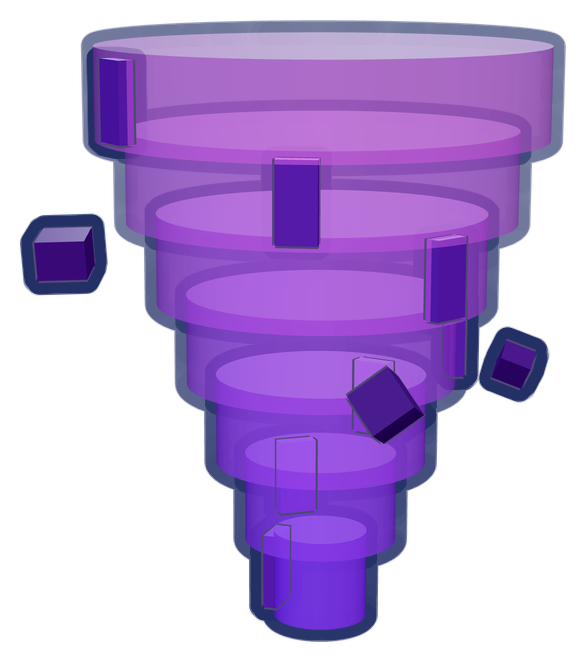
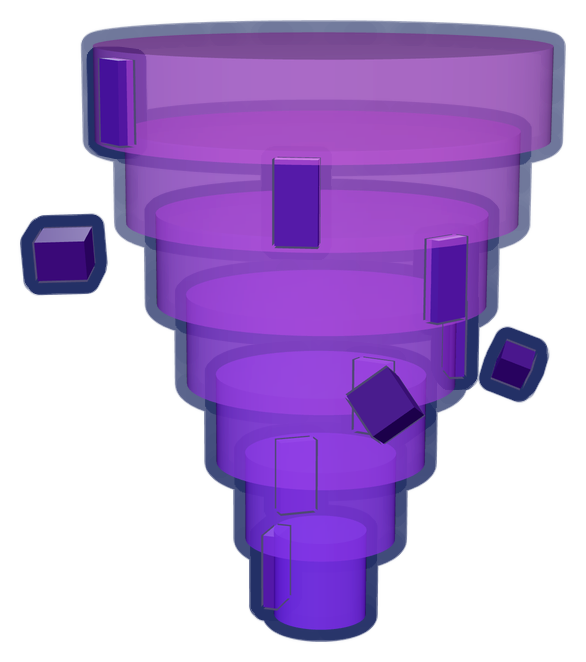
WIP: Roblox ad creatives in progress
Claude-Session: https://claude.ai/code/session_01X6pGHfvTm7U1EwdDC9ZDhh

diff --git a/tools/branding/stage.html b/tools/branding/stage.html
@@ -9,9 +9,11 @@
   lights, glossy materials and ink outline of the Stormling previews (tools/pets/viewer.html), so these
   models sit next to the pet renders in the game page art. Used by tools/branding/capture.py.
 
-  Query: ?parts=<url of a JSON list of parts>&size=1024&az=-20&el=14&fill=1
-    parts  tools/preview_map.py's scene.json part rows, cut to one studio slot and moved to the origin:
-           [shape, kind, opacity, castShadow, x, y, z, r00..r22, sx, sy, sz, "RRGGBB"]
+  Query: ?parts=<url of a JSON file>&size=1024&az=-20&el=14&fill=1
+    parts  { rows, meshes, bin }: tools/preview_map.py's scene.json part rows, cut to one studio slot and moved
+           to the origin ([shape, kind, opacity, castShadow, x, y, z, r00..r22, sx, sy, sz, "RRGGBB"]; shape
+           "mesh:<PropId>.<Paint>" = a prop pack mesh), the scene's mesh table for those meshes and the url
+           of its meshes.bin
     az/el  camera azimuth (degrees, 0 = in front: the -Z side) and elevation; fill = frame margin factor
   Serve the repo root over http (capture.py does) - three.js comes from tools/pets/node_modules.
 -->
@@ -77,6 +79,8 @@ function materialFor(kind, opacity, color) {
   } else if (kind === 'force') {
     material = new THREE.MeshBasicMaterial({ color, transparent: true, opacity: 0.25 * opacity, depthWrite: false,
       blending: THREE.AdditiveBlending });
+  } else if (kind === 'glass') {
+    material = new THREE.MeshPhysicalMaterial({ color, roughness: 0.1, clearcoat: 1, clearcoatRoughness: 0.05 });
   } else {
     material = new THREE.MeshPhysicalMaterial({ color, roughness: 0.45, clearcoat: 0.45, clearcoatRoughness: 0.3 });
   }
@@ -91,7 +95,19 @@ function materialFor(kind, opacity, color) {
   return material;
 }
 
-const rows = await (await fetch(params.get('parts'))).json();
+const data = await (await fetch(params.get('parts'))).json();
+const rows = data.rows;
+// prop pack meshes (unit-sized, stretched to the part's Size like every other shape)
+if (data.meshes && Object.keys(data.meshes).length) {
+  const buffer = await (await fetch(data.bin)).arrayBuffer();
+  for (const [name, m] of Object.entries(data.meshes)) {
+    const geometry = new THREE.BufferGeometry();
+    geometry.setAttribute('position', new THREE.BufferAttribute(new Float32Array(buffer, m.position, m.vertices * 3), 3));
+    geometry.setAttribute('normal', new THREE.BufferAttribute(new Float32Array(buffer, m.normal, m.vertices * 3), 3));
+    geometry.setIndex(new THREE.BufferAttribute(new Uint32Array(buffer, m.index, m.indices), 1));
+    GEOMETRY['mesh:' + name] = geometry;
+  }
+}
 const model = new THREE.Group();
 const matrix = new THREE.Matrix4();
 for (const row of rows) {

diff --git a/assets/source/branding/brand.js b/assets/source/branding/brand.js
@@ -18,6 +18,7 @@ const Brand = (() => {
     leaf: [[0, "#b8f7a2"], [0.5, "#7be36a"], [1, "#33b24a"]],
     coral: [[0, "#ffb3ba"], [0.5, "#ff7a85"], [1, "#e43a58"]],
     sunset: [[0, "#ffd9a6"], [0.5, "#ffb15c"], [1, "#f2702a"]],
+    rainbow: [[0, "#ff6b81"], [0.2, "#ffb347"], [0.4, "#ffe95a"], [0.6, "#6ee88a"], [0.8, "#54c8ff"], [1, "#b48bff"]],
   };
 
   async function ready() {
@@ -56,7 +57,8 @@ const Brand = (() => {
 
   // A big title line: gradient fill, thick Ink outline, a solid Ink extrusion underneath, a white gloss on
   // the upper half and a soft shadow. opts: size (font px), fill (FILLS key or stops), stroke, depth,
-  // spacing (letter spacing px), font, maxWidth (shrinks the line to fit), gloss (0..1)
+  // spacing (letter spacing px), font, maxWidth (shrinks the line to fit), gloss (0..1), horizontal (the fill
+  // runs left -> right, e.g. FILLS.rainbow)
   function title(text, opts = {}) {
     const font = opts.font || "Luckiest Guy";
     let size = opts.size || 160;
@@ -72,7 +74,7 @@ const Brand = (() => {
     const width = Math.ceil(box.width + pad * 2);
     const height = Math.ceil(box.height + pad * 2 + depth);
     const baseline = pad - box.y;
-    const fill = gradient(typeof opts.fill === "string" ? FILLS[opts.fill] : (opts.fill || FILLS.bolt));
+    const fill = gradient(typeof opts.fill === "string" ? FILLS[opts.fill] : (opts.fill || FILLS.bolt), opts.horizontal);
     const gloss = gradient([[0, "#ffffff"], [0.5, "#ffffff"], [0.5001, "#ffffff", 0], [1, "#ffffff", 0]]);
     const shadowId = uid("shadow");
     const line = (attributes, dy = 0) => `<text x="${width / 2}" y="${baseline + dy}" text-anchor="middle"

diff --git a/tools/branding/capture.py b/tools/branding/capture.py
@@ -67,8 +67,10 @@ PETS = [
         "BreezeKing", "ThunderPup", "PhoenixChick", "AuroraFox",  # thumbnail 1 (and 2)
         "Droplet", "Zappy", "CactusCub", "Icicle", "LavaPup", "Nebula", "Sunny", "VoltBat", "Scarab", "Moonbeam",
         "Ember", "InfernoDrake",  # thumbnail 2
+        "Puffling", "Prism", "StormLord", "MirageDjinn", "YetiKing", "GalaxyGuardian",  # ads
     )],
     ("ThunderPup", "Golden", "hero", 640),
+    ("ThunderPup", "Rainbow", "hero", 640),
     ("AuroraFox", "Rainbow", "hero", 640),
     *[(pet, "Normal", "three4", 640) for pet in (  # thumbnail 3: the Mega Storm exclusives
         "TempestTitan", "VoltWyrm", "FrostColossus", "CycloneDrake", "MaelstromSpirit", "RainbowRoc",
@@ -80,11 +82,15 @@ STUDIO = {
     "Weather_": (1024, -20, 12),
     "Egg_": (512, -25, 10),
     "MegaStorm_": (1024, -20, 6),
+    "Gear_Vacuum": (1024, -100, 14),  # side view, nozzle to the left
+    "Gear_Player": (1024, 125, 8),  # from behind on the left: the vacuum aims up and to the right
 }
 # The studio models the pages use (--all renders every one)
 STUDIO_USED = {
-    "Weather_StormCloud", "Weather_RainbowMist", "Weather_Starstorm", "Weather_CosmicVortex",
+    "Weather_StormCloud", "Weather_RainbowMist", "Weather_Starstorm", "Weather_CosmicVortex", "Weather_Thunderhead",
+    "Weather_RainCloud", "Weather_Breeze",
     "Egg_MeadowEgg", "Egg_ThunderEgg", "Egg_DuneEgg", "Egg_FrostEgg", "Egg_MagmaEgg", "Egg_CosmicEgg",
+    "Gear_Vacuum", "Gear_Player",
 }
 # BrandingScene.luau's studio slots
 STUDIO_ORIGIN = (0, 3000, 9000)
@@ -98,6 +104,10 @@ MAP_SHOTS = {
     "plains": "target=150,10,0 az=125 el=16 dist=170 fov=50 light=1 size=2400x1350",
     # thumbnail 3: the Mega Storm (Cosmic Maelstrom) in the Storm Station arena, from low down
     "arena": "target=-112,75,0 az=235 el=-2 dist=135 fov=66 light=hub size=2400x1350",
+    # ads: standing in Thunder Valley's field among the storm clouds
+    "thunder_field": "pos=380,22,60 look=520,20,-10 fov=60 light=2 size=2400x1350",
+    # ads: the whole chain of sky islands over the cloud sea, from the side
+    "chain": "target=850,0,0 az=160 el=36 dist=1350 fov=40 light=hub fog=2000,8000 size=2400x1350",
 }
 
 
@@ -281,8 +291,10 @@ def capture_studio(raw_dir, out_dir, everything=False):
         if not rows:
             print(f"  ! studio slot {slot} ({name}) is empty")
             continue
-        (stage_dir / f"{name}.json").write_text(json.dumps(rows), encoding="utf-8")
-        size, azimuth, elevation = next(v for prefix, v in STUDIO.items() if name.startswith(prefix))
+        meshes = {row[0][5:]: scene["meshes"]["items"][row[0][5:]] for row in rows if row[0].startswith("mesh:")}
+        payload = {"rows": rows, "meshes": meshes, "bin": "/" + rel(raw_dir / "meshes.bin")}
+        (stage_dir / f"{name}.json").write_text(json.dumps(payload), encoding="utf-8")
+        size, azimuth, elevation = next(v for prefix, v in STUDIO.items() if name.startswith(prefix))  # first match
         px = size * SUPERSAMPLE
         query = f"parts=/{rel(stage_dir / (name + '.json'))}&size={px}&az={azimuth}&el={elevation}"
         jobs.append((f"tools/branding/stage.html?{query}", stage_dir / f"{name}.png", px))
